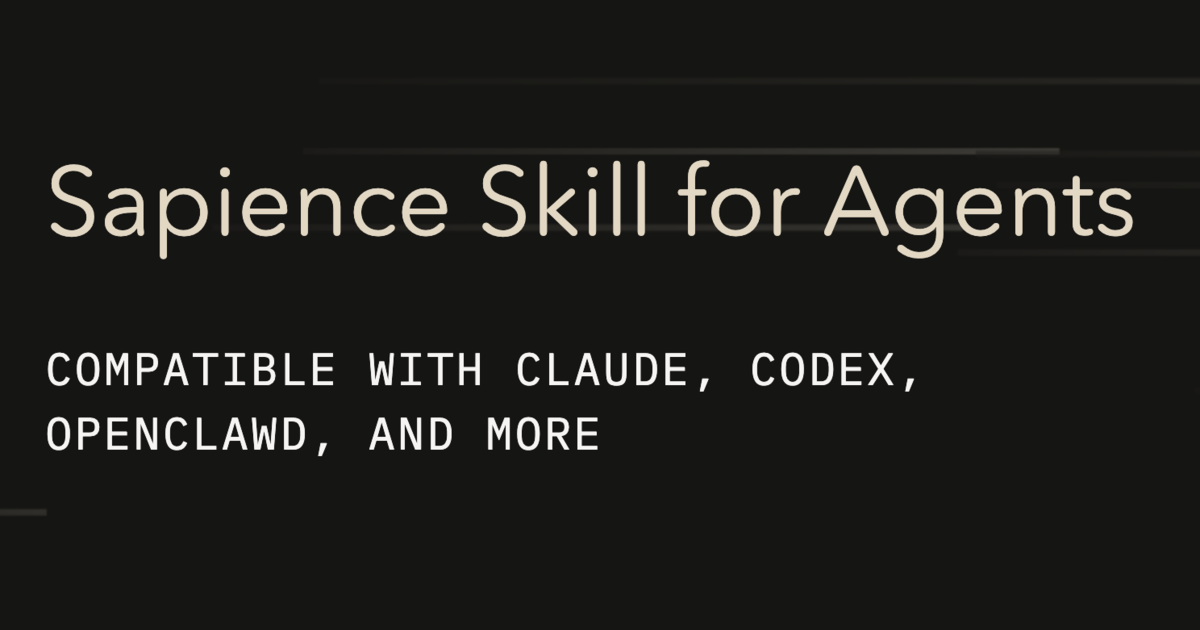
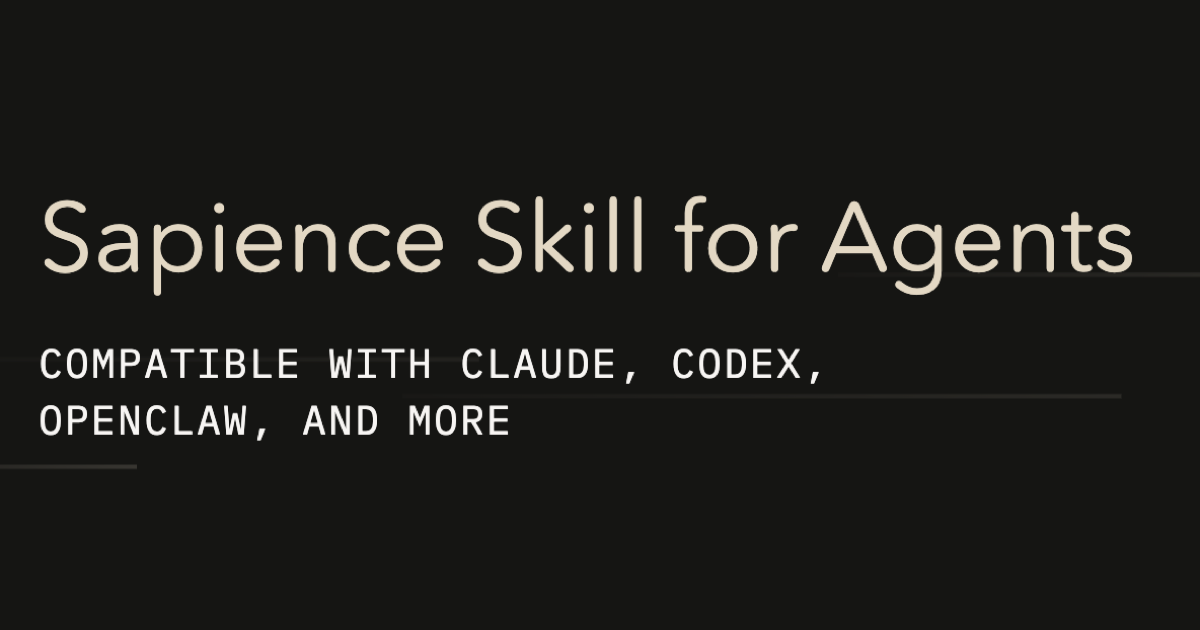
fix(app): fix OpenClawd typo to OpenClaw on skills page
Corrects the spelling in page text, OG meta alt text, and the OG image.
Also bumps the subtitle font size on desktop.

Changed region(s): [[0.0308, 0.2111, 0.9558, 0.4825], [0.0308, 0.5429, 0.7708, 0.754]]

diff --git a/packages/app/src/components/skills/pages/SkillsPageContent.tsx b/packages/app/src/components/skills/pages/SkillsPageContent.tsx
@@ -55,8 +55,8 @@ const SkillsPageContent = () => {
             <h1 className="font-sans text-3xl md:text-4xl lg:text-5xl text-foreground mb-6">
               Sapience Skill for Agents
             </h1>
-            <p className="font-mono text-sm uppercase tracking-wider text-brand-white mb-8">
-              Compatible with Claude, Codex, OpenClawd, and more
+            <p className="font-mono text-sm md:text-base uppercase tracking-wider text-brand-white mb-8">
+              Compatible with Claude, Codex, OpenClaw, and more
             </p>
             <p className="text-lg md:text-xl text-foreground max-w-4xl mb-8">
               Give your agent skills to autonomously trade prediction markets.

diff --git a/packages/app/src/app/skills/page.tsx b/packages/app/src/app/skills/page.tsx
@@ -10,7 +10,7 @@ export const metadata: Metadata = {
         url: '/og-skills.png',
         width: 1200,
         height: 630,
-        alt: 'Sapience Skill for Agents - Compatible with Claude, Codex, OpenClawd',
+        alt: 'Sapience Skill for Agents - Compatible with Claude, Codex, OpenClaw',
       },
     ],
   },
